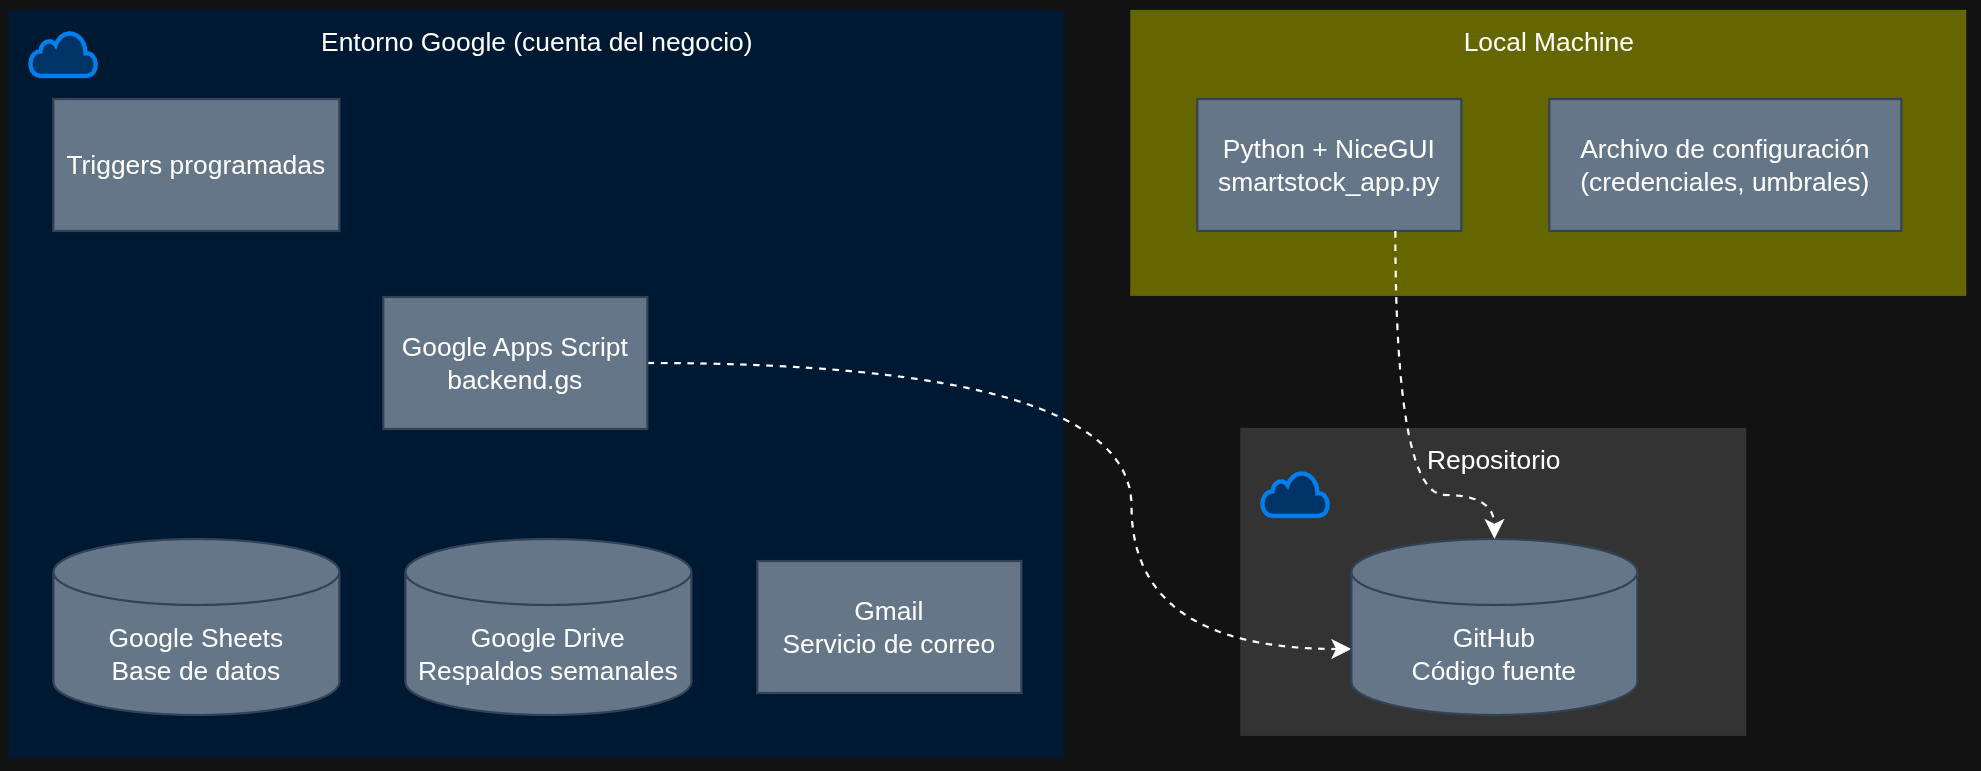
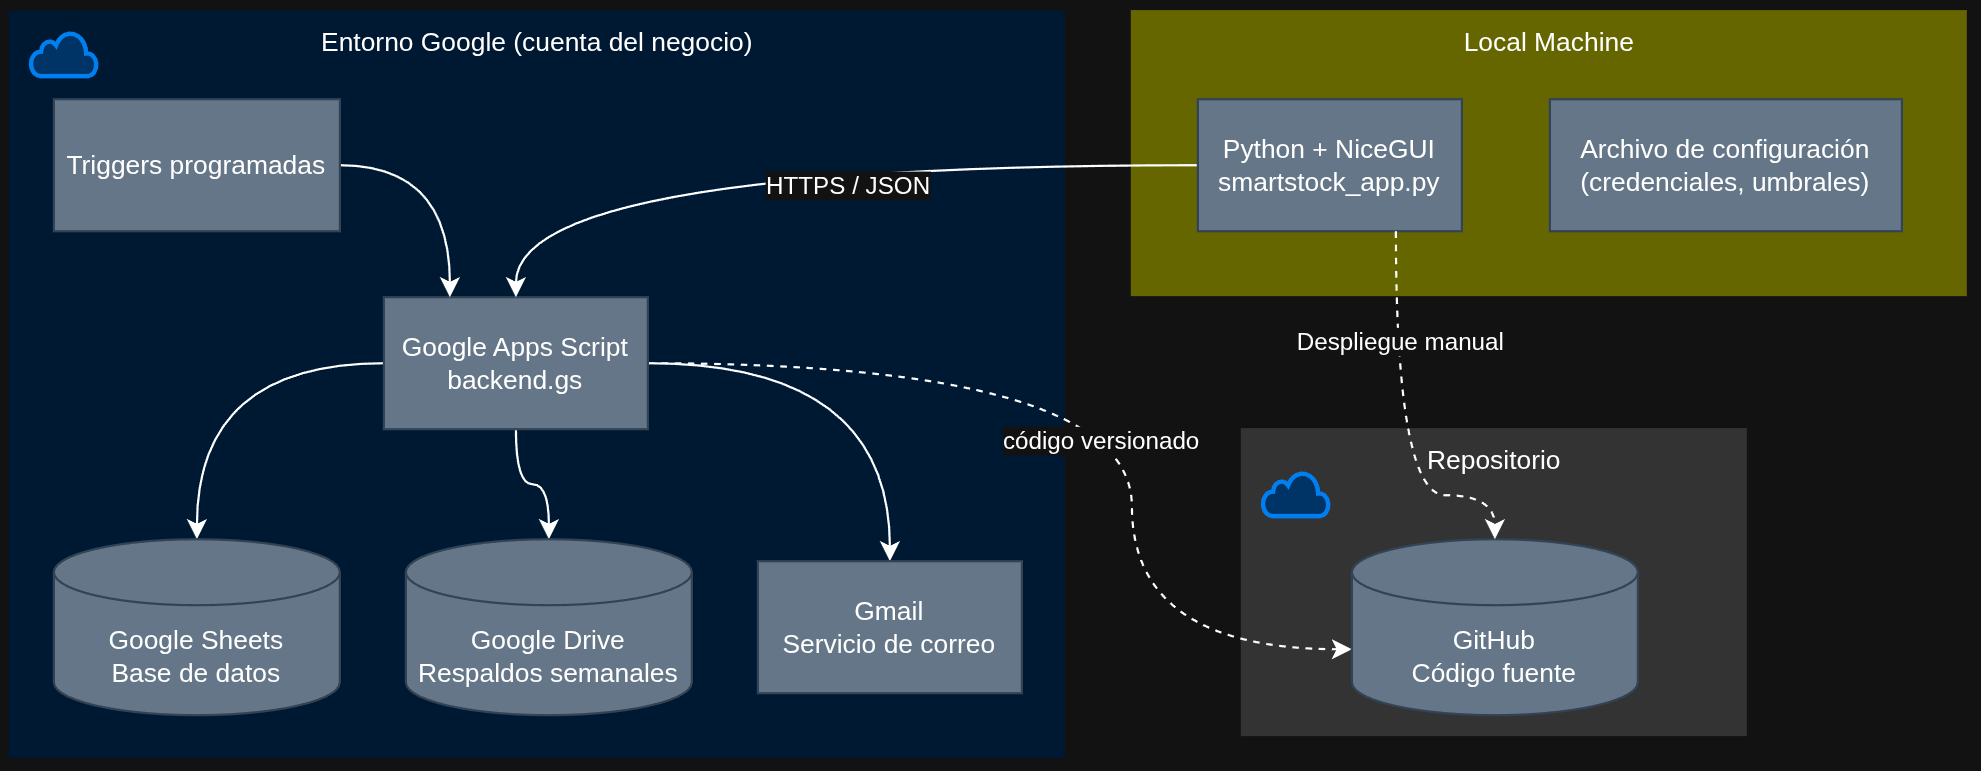
Feat: README created with UML diagrams

diff --git a/Docs/DIAGRAMAS_UML.md b/Docs/DIAGRAMAS_UML.md
@@ -1,0 +1,65 @@
+# SmartStock – Diagramas UML
+
+Documentación de los diagramas de análisis y diseño del sistema **SmartStock**. Los archivos fuente editables (`.drawio`) se encuentran en [`UML/Drawio/`](UML/Drawio/).
+
+---
+
+## 1. Diagrama estructural (contexto del sistema)
+
+![Diagrama estructural](UML/Estructural.jpeg)
+
+Ofrece una vista general de SmartStock en su entorno: los actores que interactúan con él (Empleado que registra, Propietario/Administrador que revisa, y Proveedor y Cliente final de forma indirecta) y los elementos tecnológicos que lo soportan (Google Sheets como BD, Google Apps Script como backend, Google Drive para respaldos y NiceGUI como interfaz).
+
+## 2. Diagrama de casos de uso
+
+![Diagrama de casos de uso](UML/Casos_Uso.png)
+
+Presenta las funcionalidades del sistema desde el punto de vista de sus actores (Administrador, Empleado y Propietario visor): administrar usuarios, gestionar el catálogo de productos y proveedores, gestionar compras y reposición, registrar movimientos de inventario, gestionar alertas y notificaciones, y consultar el dashboard, incluyendo sus relaciones `<<include>>` y `<<extend>>`.
+
+## 3. Diagrama de componentes
+
+![Diagrama de componentes](UML/Componentes.png)
+
+Muestra la organización interna del software en capas: el frontend NiceGUI con sus módulos (inventario, alertas, compras, movimientos, reportes y configuración), la navegación y sesión, la validación de formularios y el orquestador de casos de uso; la capa de dominio con los servicios de cálculo de stock, alertas, rotación, compras, usuarios y valorización; y la capa de infraestructura con la API de Google Apps Script, los triggers programados, Google Sheets, Google Drive y Gmail.
+
+## 4. Diagrama entidad–relación
+
+![Diagrama entidad-relación](UML/Entidad_Relacion.png)
+
+Modela los datos persistidos en Google Sheets: las entidades `PRODUCTO`, `LOTE`, `MOVIMIENTO`, `ALERTA`, `ORDEN_COMPRA`, `PROVEEDOR`, `USUARIO`, `AUDITORIA` y `CONFIGURACION`, con sus atributos, claves primarias y foráneas, y las relaciones que las vinculan (un producto contiene lotes, un lote afecta movimientos, un usuario registra movimientos, etc.).
+
+## 5. Diagrama de clases
+
+![Diagrama de clases](UML/Dia_Clases.png)
+
+Define las clases principales del dominio (`Producto`, `Lote`, `Movimiento`, `Alerta`, `OrdenCompra`, `Proveedor`, `Usuario` y `Configuracion`) con sus atributos, operaciones y relaciones, junto con las enumeraciones que regulan el comportamiento del sistema (`Rol`, `EstadoLote`, `TipoMovimiento`, `TipoAlerta`, `EstadoAlerta`, `OrigenOrden` y `EstadoOrden`).
+
+## 6. Diagrama de despliegue
+
+![Diagrama de despliegue](UML/Despliegue.png)
+
+Ilustra cómo se distribuye el sistema en sus nodos de ejecución: el entorno de Google de la cuenta del negocio (backend en Apps Script, Google Sheets como base de datos, respaldos semanales en Drive, servicio de correo Gmail y triggers programados), la máquina local con la aplicación Python + NiceGUI y su archivo de configuración, y el repositorio de GitHub que alberga el código fuente.
+
+## 7. Diagrama de actividad – Movimientos y alertas
+
+![Diagrama de actividad de movimientos y alertas](UML/Act_MovimientosAlertas.png)
+
+Describe el flujo paso a paso del registro de movimientos de inventario por parte del empleado: elección del tipo de movimiento (entrada o salida), validación de datos y de stock disponible, recálculo del stock actual y generación automática de alertas (bajo stock o vencimiento próximo), evitando duplicados en 24 h y notificando por correo antes de actualizar el dashboard.
+
+## 8. Diagrama de estados – Ciclo de vida del stock y alertas
+
+![Diagrama de estados de vida del stock y alertas](UML/Estados_VidaStock_Alertas.png)
+
+Representa las máquinas de estado de dos elementos clave: el **ciclo de vida del lote** (`Vigente` → `PorVencer` → `Vencido` → `Merma`, o `Consumido` al agotarse por FIFO) y el **ciclo de vida de las alertas** (`Nueva` → `Atendida`, `Pospuesta` o `Descartada`), con los eventos y condiciones que provocan cada transición.
+
+## 9. Diagrama de secuencia – Salida de stock con rotación FIFO
+
+![Diagrama de secuencia de salida](UML/Secuencia_Salida.png)
+
+Describe el flujo completo de una salida de inventario: el empleado solicita la salida, el backend consulta los lotes vigentes del producto, sugiere el lote más próximo a vencer (criterio FEFO, variante de FIFO priorizada por vencimiento) y, tras la confirmación, registra el movimiento, descuenta la cantidad disponible del lote y actualiza su estado si queda agotado.
+
+## 10. Diagrama de secuencia – Registro de usuarios y sesión
+
+![Diagrama de secuencia de registro de usuarios](UML/Secuencia_RegistroUsuarios.png)
+
+Detalla la interacción entre actores, frontend NiceGUI, backend Apps Script y Google Sheets en tres escenarios: el alta/edición de usuarios por el administrador (con verificación de rol), el inicio de sesión del empleado (con token y acceso al dashboard según rol, o mensaje de error si el usuario es inválido) y la verificación de permisos por operación (por ejemplo, el rechazo de una anulación de movimiento intentada por un empleado).

diff --git a/README.md b/README.md
@@ -1,0 +1,21 @@
+# SmartStock
+
+**SmartStock** es un sistema encargado de gestionar inventario, diseñado para controlar el stock de productos por **lotes con fecha de vencimiento**, registrar **movimientos de inventario** (entradas, salidas, ajustes y anulaciones) y generar **alertas automáticas** por stock bajo, vencimiento próximo o productos vencidos, con notificaciones por correo a los responsables.
+
+El sistema cubre el ciclo completo del inventario: catálogo de productos y proveedores, compras y reposición, salidas de stock con criterio de rotación **FEFO** (*First Expired, First Out*: se consume primero el lote más próximo a vencer), valoración del inventario, auditoría de operaciones y un dashboard para la toma de decisiones.
+
+El acceso al sistema está definido por **roles** con permisos diferenciados:
+
+- **Administrador:** gestiona usuarios, catálogo, compras, alertas y puede anular movimientos.
+- **Empleado:** registra movimientos de inventario y gestiona alertas del día a día.
+- **Propietario (visor):** consulta el dashboard y el estado del inventario en modo lectura.
+
+En cuanto a su arquitectura, SmartStock combina una interfaz construida con **Python + NiceGUI**, un backend en **Google Apps Script** que expone una API, **Google Sheets** como base de datos, **Google Drive** para respaldos periódicos y **Gmail** para el envío de notificaciones. El código fuente se versiona en un repositorio de GitHub y las tareas programadas (triggers) ejecutan revisiones diarias de stock y vencimientos.
+
+---
+
+## Diagramas UML
+
+El sistema cuenta con una documentación completa de diagramas de análisis y diseño (estructural, casos de uso, componentes, entidad–relación, clases, despliegue, actividad, estados y secuencia).
+
+👉 **[Ver todos los diagramas UML](Docs/DIAGRAMAS_UML.md)**
